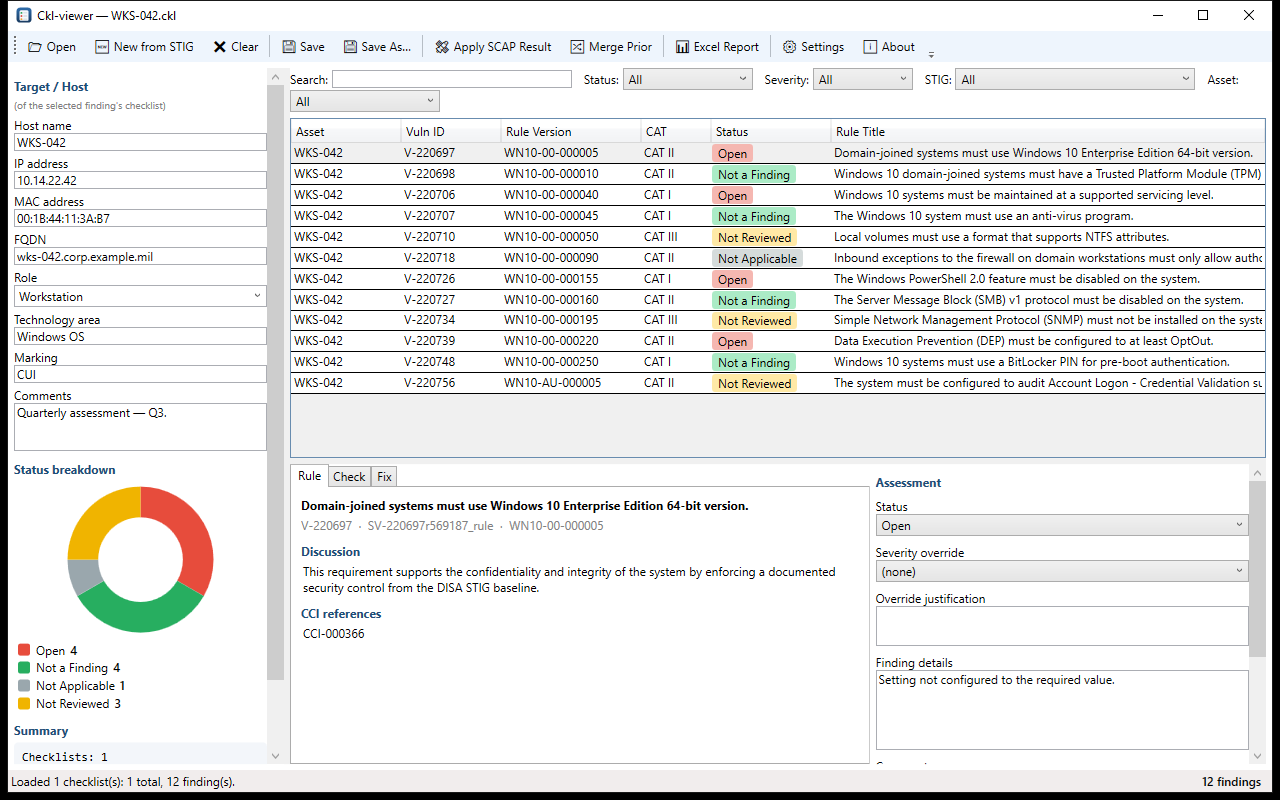
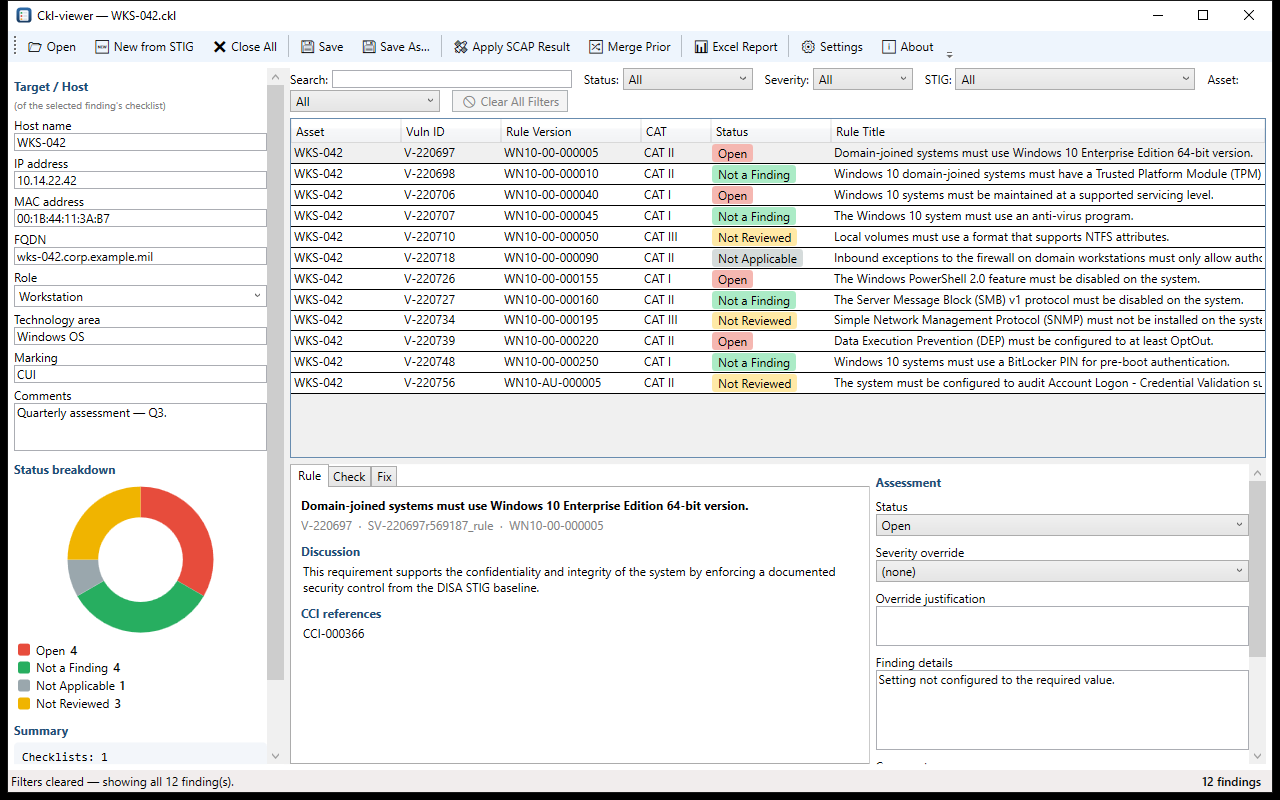
Add a "Clear All Filters" button (v1.10.0)
Excel-style reset for the filter bar: one click returns Search, Status,
Severity, STIG, and Asset to their defaults. Like Excel's Clear, the button is
disabled until at least one filter or a search term is active.

Resetting sets the backing fields and refreshes the grid once, instead of
firing five separate refreshes.

Also renames the toolbar's "Clear" to "Close All". It closes every loaded
checklist, which was easy to confuse with clearing filters once a second Clear
existed in the filter bar; its behaviour is unchanged.

Changed region(s): [[0.1875, 0.0312, 0.7188, 0.0625], [0.0, 0.9688, 0.1875, 1.0], [0.375, 0.125, 0.4375, 0.1562]]

diff --git a/src/CklViewer/MainWindow.xaml b/src/CklViewer/MainWindow.xaml
@@ -57,7 +57,7 @@
                     <TextBlock Text="🆕 New from STIG" />
                 </Button>
                 <Button Command="{Binding ClearCommand}" Padding="8,4" ToolTip="Close all loaded checklists">
-                    <TextBlock Text="✖ Clear" />
+                    <TextBlock Text="✖ Close All" />
                 </Button>
                 <Separator />
                 <Button Command="{Binding SaveCommand}" Padding="8,4"
@@ -192,6 +192,11 @@
                     <ComboBox Width="240" ItemsSource="{Binding StigFilters}" SelectedItem="{Binding StigFilter}" />
                     <TextBlock Text="Asset:" VerticalAlignment="Center" Margin="12,0,4,0" />
                     <ComboBox Width="150" ItemsSource="{Binding AssetFilters}" SelectedItem="{Binding AssetFilter}" />
+                    <Button Command="{Binding ClearFiltersCommand}" Margin="12,0,0,0" Padding="8,2"
+                            VerticalAlignment="Center"
+                            ToolTip="Clear all filters and the search box (enabled only while a filter is active)">
+                        <TextBlock Text="🚫 Clear All Filters" />
+                    </Button>
                 </WrapPanel>
 
                 <!-- Findings grid -->

diff --git a/src/CklViewer/ViewModels/MainViewModel.cs b/src/CklViewer/ViewModels/MainViewModel.cs
@@ -58,6 +58,7 @@ public class MainViewModel : INotifyPropertyChanged
         OpenCommand = new RelayCommand(OpenChecklists);
         NewFromStigCommand = new RelayCommand(NewFromStig);
         ClearCommand = new RelayCommand(ClearChecklists, () => Documents.Count > 0);
+        ClearFiltersCommand = new RelayCommand(ClearFilters, () => HasActiveFilter);
         SaveCommand = new RelayCommand(Save, () => CurrentDocument is not null);
         SaveAsCommand = new RelayCommand(SaveAs, () => CurrentDocument is not null);
         ApplyScapCommand = new RelayCommand(ApplyScapResult, () => Documents.Count > 0);
@@ -100,6 +101,7 @@ public class MainViewModel : INotifyPropertyChanged
     public ICommand OpenCommand { get; }
     public ICommand NewFromStigCommand { get; }
     public ICommand ClearCommand { get; }
+    public ICommand ClearFiltersCommand { get; }
     public ICommand SaveCommand { get; }
     public ICommand SaveAsCommand { get; }
     public ICommand ApplyScapCommand { get; }
@@ -197,6 +199,33 @@ public class MainViewModel : INotifyPropertyChanged
 
     /// <summary>Header for the breakdown panel, calling out when it reflects a filter.</summary>
     public string SummaryHeader => HasActiveFilter ? "Status breakdown (filtered)" : "Status breakdown";
+
+    /// <summary>
+    /// Resets every filter and the search box in one go, refreshing the grid once
+    /// rather than after each individual reset.
+    /// </summary>
+    internal void ClearFilters()
+    {
+        if (!HasActiveFilter)
+        {
+            return;
+        }
+
+        _searchText = string.Empty;
+        _statusFilter = AllFilter;
+        _severityFilter = AllFilter;
+        _stigFilter = AllFilter;
+        _assetFilter = AllFilter;
+
+        OnPropertyChanged(nameof(SearchText));
+        OnPropertyChanged(nameof(StatusFilter));
+        OnPropertyChanged(nameof(SeverityFilter));
+        OnPropertyChanged(nameof(StigFilter));
+        OnPropertyChanged(nameof(AssetFilter));
+
+        ApplyFilters();
+        StatusMessage = $"Filters cleared — showing all {Findings.Count:N0} finding(s).";
+    }
 
     /// <summary>Re-applies the filter to the grid and recomputes the counts and chart from what's visible.</summary>
     private void ApplyFilters()

diff --git a/tests/CklViewer.Tests/FilterCountTests.cs b/tests/CklViewer.Tests/FilterCountTests.cs
@@ -169,6 +169,46 @@ public class FilterCountTests
     }
 
     [Fact]
+    public void ClearFiltersResetsEveryFilterAtOnce()
+    {
+        OnStaThread(() =>
+        {
+            var path = WriteSample();
+            try
+            {
+                var vm = new MainViewModel();
+                vm.LoadChecklists(new[] { path });
+
+                // Nothing to clear yet.
+                Assert.False(vm.ClearFiltersCommand.CanExecute(null));
+
+                vm.StatusFilter = "Open";
+                vm.SeverityFilter = "CAT II";
+                vm.SearchText = "WN10";
+                Assert.True(vm.ClearFiltersCommand.CanExecute(null));
+
+                vm.ClearFiltersCommand.Execute(null);
+
+                Assert.Equal(MainViewModel.AllFilter, vm.StatusFilter);
+                Assert.Equal(MainViewModel.AllFilter, vm.SeverityFilter);
+                Assert.Equal(MainViewModel.AllFilter, vm.StigFilter);
+                Assert.Equal(MainViewModel.AllFilter, vm.AssetFilter);
+                Assert.Equal(string.Empty, vm.SearchText);
+
+                Assert.False(vm.HasActiveFilter);
+                Assert.False(vm.ClearFiltersCommand.CanExecute(null));
+                Assert.Equal(3, vm.VisibleCount);
+                Assert.Equal("3 findings", vm.VisibleCountText);
+                Assert.Equal("Status breakdown", vm.SummaryHeader);
+            }
+            finally
+            {
+                File.Delete(path);
+            }
+        });
+    }
+
+    [Fact]
     public void EmptySessionShowsNoCount()
     {
         OnStaThread(() =>

diff --git a/README.md b/README.md
@@ -57,7 +57,9 @@ bundled inside or shared with your PC.
   button. Open several at once and it merges them into one view.
 - **Shows findings at a glance** — color-coded statuses (Open, Not a Finding,
   Not Applicable, Not Reviewed) and severity (CAT I / II / III). Search and
-  filter by status, severity, STIG, or asset.
+  filter by status, severity, STIG, or asset, and reset the lot with
+  **Clear All Filters** (greyed out until something is actually filtered, just
+  like Excel).
 - **Status donut chart** — a live pie of the finding statuses across everything
   you've loaded, updating as you assess. Apply a filter and it follows suit,
   labelled "(filtered)" so you always know what you're looking at, with a
